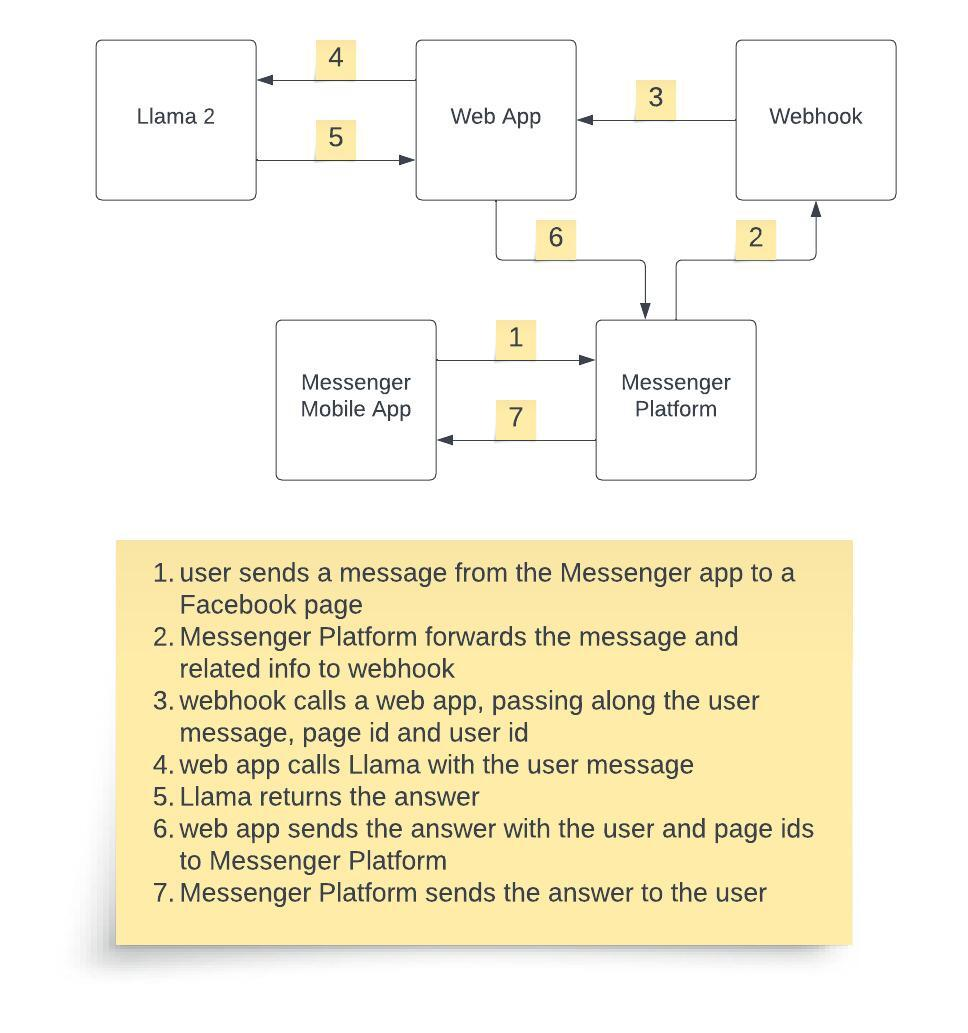
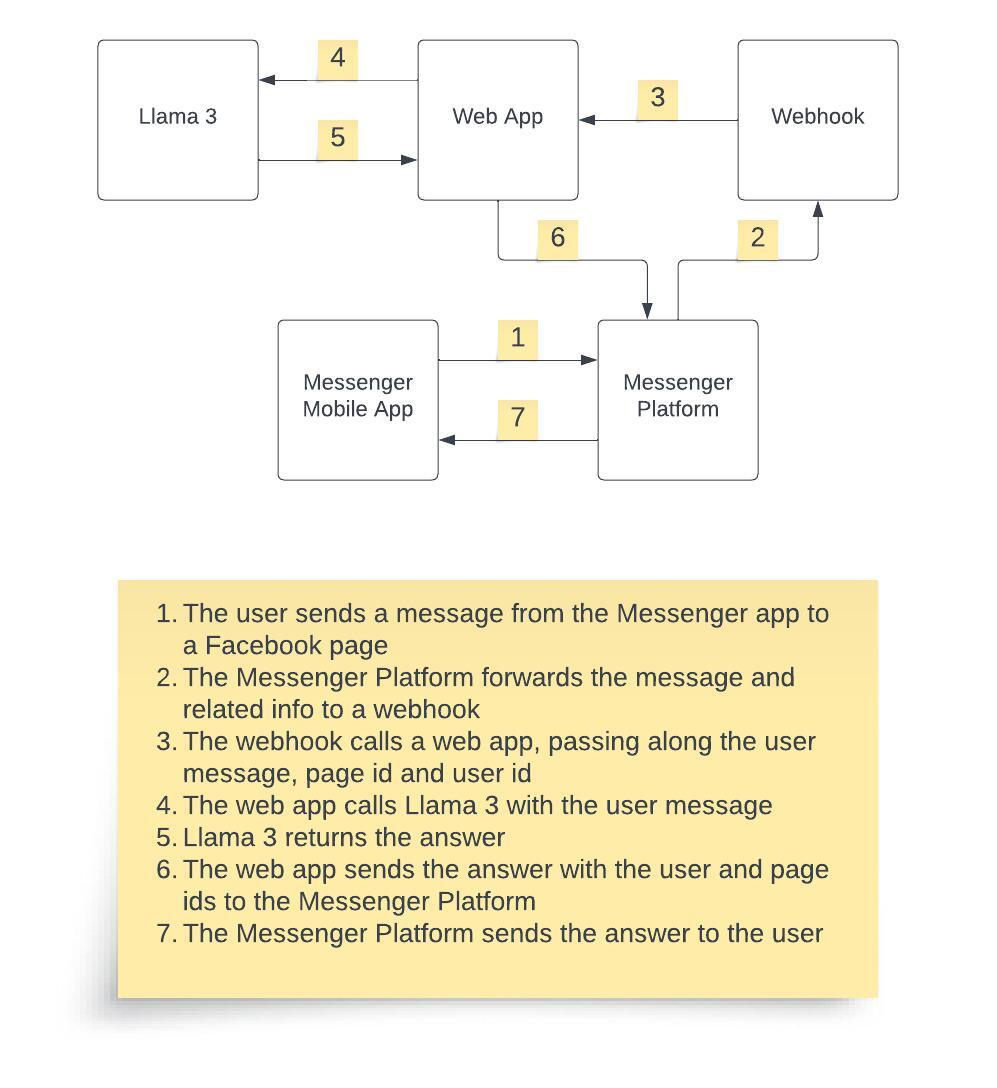
update messenger and whatsapp tutorials for Llama 3

diff --git a/recipes/use_cases/chatbots/whatsapp_llama/llama_chatbot.py b/recipes/use_cases/chatbots/whatsapp_llama/llama_chatbot.py
@@ -1,5 +1,5 @@
 # Copyright (c) Meta Platforms, Inc. and affiliates.
-# This software may be used and distributed according to the terms of the Llama 2 Community License Agreement.
+# This software may be used and distributed according to the terms of the Llama 3 Community License Agreement.
 
 import langchain
 from langchain.llms import Replicate
@@ -39,26 +39,25 @@ class WhatsAppClient:
         return response.status_code
 
 os.environ["REPLICATE_API_TOKEN"] = "<your replicate api token>"    
-llama2_13b_chat = "meta/llama-2-13b-chat:f4e2de70d66816a838a89eeeb621910adffb0dd0baba3976c96980970978018d"
+llama3_8b_chat = "meta/meta-llama-3-8b-instruct"
 
 llm = Replicate(
-    model=llama2_13b_chat,
-    model_kwargs={"temperature": 0.01, "top_p": 1, "max_new_tokens":500}
+    model=llama3_8b_chat,
+    model_kwargs={"temperature": 0.0, "top_p": 1, "max_new_tokens":500}
 )
 client = WhatsAppClient()
 app = Flask(__name__)
 
 @app.route("/")
 def hello_llama():
-    return "<p>Hello Llama 2</p>"
+    return "<p>Hello Llama 3</p>"
 
 @app.route('/msgrcvd', methods=['POST', 'GET'])
 def msgrcvd():    
     message = request.args.get('message')
-    #client.send_template_message("hello_world", "en_US", "14086745477")
     answer = llm(message)
     print(message)
     print(answer)
-    client.send_text_message(llm(message), "14086745477")
+    client.send_text_message(llm(message), "<your phone number>")
     return message + "<p/>" + answer
 

diff --git a/recipes/use_cases/chatbots/messenger_llama/llama_messenger.py b/recipes/use_cases/chatbots/messenger_llama/llama_messenger.py
@@ -1,5 +1,5 @@
 # Copyright (c) Meta Platforms, Inc. and affiliates.
-# This software may be used and distributed according to the terms of the Llama 2 Community License Agreement.
+# This software may be used and distributed according to the terms of the Llama 3 Community License Agreement.
 
 import langchain
 from langchain.llms import Replicate
@@ -11,11 +11,11 @@ import requests
 import json
 
 os.environ["REPLICATE_API_TOKEN"] = "<your replicate api token>"
-llama2_13b_chat = "meta/llama-2-13b-chat:f4e2de70d66816a838a89eeeb621910adffb0dd0baba3976c96980970978018d"
+llama3_8b_chat = "meta/meta-llama-3-8b-instruct"
 
 llm = Replicate(
-    model=llama2_13b_chat,
-    model_kwargs={"temperature": 0.01, "top_p": 1, "max_new_tokens":500}
+    model=llama3_8b_chat,
+    model_kwargs={"temperature": 0.0, "top_p": 1, "max_new_tokens":500}
 )
 
 app = Flask(__name__)

diff --git a/recipes/use_cases/chatbots/whatsapp_llama/whatsapp_llama3.md b/recipes/use_cases/chatbots/whatsapp_llama/whatsapp_llama3.md
@@ -1,14 +1,14 @@
-# Building a Llama-enabled WhatsApp Chatbot
+# Building a Llama 3 Enabled WhatsApp Chatbot
 
-This step-by-step tutorial shows the complete process of building a Llama-enabled WhatsApp chatbot. A demo video of using the iOS WhatsApp to send a question to a test phone number and receive the Llama 2 generated answer is [here](https://drive.google.com/file/d/1fZDaOsvyE1yrNGETV-e0SvL14BYeAI6R/view).
+This step-by-step tutorial shows the complete process of building a Llama 3 enabled WhatsApp chatbot. A demo video of using the iOS WhatsApp to send a question to a test phone number and receive the Llama 3 generated answer is [here](https://drive.google.com/file/d/1fZDaOsvyE1yrNGETV-e0SvL14BYeAI6R/view).
 
-If you're interested in a Llama-enabled Messenger chatbot, see [here](../messenger_llama/messenger_llama2.md) for a tutorial.
+If you're interested in a Llama 3 enabled Messenger chatbot, see [here](../messenger_llama/messenger_llama3.md) for a tutorial.
 
 ## Overview
 
-Businesses of all sizes can use the [WhatsApp Business API](https://developers.facebook.com/docs/whatsapp/cloud-api/overview) to connect their customers with human agents or Llama 2 powered chatbots. The benefits of an intelligent and knowledgable chatbot are obvious, including cost saving and better customer experience such as 24x7 availability. In this blog, we'll cover the details of integrating Llama 2 with the WhatsApp Business API to build a basic Llama 2 enabled chatbot.
+Businesses of all sizes can use the [WhatsApp Business API](https://developers.facebook.com/docs/whatsapp/cloud-api/overview) to connect their customers with human agents or Llama 3 powered chatbots. The benefits of an intelligent and knowledgable chatbot are obvious, including cost saving and better customer experience such as 24x7 availability. In this blog, we'll cover the details of integrating Llama 3 with the WhatsApp Business API to build a basic Llama 3 enabled chatbot.
 
-The diagram below shows the components and overall data flow of the Llama 2 enabled WhatsApp chatbot demo we built, using Amazon EC2 instance as an example for running the web server.
+The diagram below shows the components and overall data flow of the Llama 3 enabled WhatsApp chatbot demo we built, using Amazon EC2 instance as an example for running the web server.
 
 ![](../../../../docs/images/whatsapp_llama_arch.jpg)
 
@@ -29,9 +29,9 @@ Now open the [Meta for Develops Apps](https://developers.facebook.com/apps/) pag
 
 Note down the "Temporary access token", "Phone number ID", and "a recipient phone number" in the API Setup page above, which will be used later.
 
-## Writing Llama 2 Enabled Web App
+## Writing Llama 3 Enabled Web App
 
-The Python-based web app we developed uses [LangChain](https://www.langchain.com/), an open source LLM development framework, and [Replicate](https://replicate.com/), a service provider hosting LLM models in the cloud, to receive the user query sent by the webhook, which will be covered in the next section, pass the query to Llama 2, and send the Llama 2 answer back to the webhook. For more information on how to use LangChain and Replicate to develop Llama 2 apps, see the recipes - you may also replace Replicate with other Llama deployment options shown in the demo apps.
+The Python-based web app we developed uses [LangChain](https://www.langchain.com/), an open source LLM development framework, and [Replicate](https://replicate.com/), a service provider hosting LLM models in the cloud, to receive the user query sent by the webhook, which will be covered in the next section, pass the query to Llama 3, and send the Llama 3 answer back to the webhook. For more information on how to use LangChain and Replicate to develop Llama 3 apps, see the recipes - you may also replace Replicate with other Llama deployment options shown in the demo apps.
 
 First, let's create a new conda (or you can use venv if you like) environment and install all the required packages:
 
@@ -41,7 +41,7 @@ conda activate whatsapp-llama
 pip install langchain replicate flask requests uvicorn gunicorn
 ```
 
-Then, create a Python file named llama_chatbot.py with the following code, which defines a class `WhatsAppClient` and a method `send_text_message` to post a message (the answer generated by Llama 2 on a user query) to the WhatsApp Cloud API, which then sends the answer back to the WhatsApp user. Remember to set `WHATSAPP_API_TOKEN` and `WHATSAPP_CLOUD_NUMBER_ID` to the values you saved in the previous section.
+Then, create a Python file named llama_chatbot.py with the following code, which defines a class `WhatsAppClient` and a method `send_text_message` to post a message (the answer generated by Llama 3 on a user query) to the WhatsApp Cloud API, which then sends the answer back to the WhatsApp user. Remember to set `WHATSAPP_API_TOKEN` and `WHATSAPP_CLOUD_NUMBER_ID` to the values you saved in the previous section.
 
 ```
 import langchain
@@ -78,25 +78,25 @@ class WhatsAppClient:
         return response.status_code
 ```
 
-Finally, add the code below to llama_chatbot.py, which creates a Llama 2 instance and defines an HTTP method `msgrcvd` to:
+Finally, add the code below to llama_chatbot.py, which creates a Llama 3 instance and defines an HTTP method `msgrcvd` to:
 1. receive the user message forwarded by the webhook;
-2. ask Llama 2 for the answer;
+2. ask Llama 3 for the answer;
 3. call the `WhatsAppClient`'s `send_text_message`` with a recipient's phone number.
    
 ```   
 os.environ["REPLICATE_API_TOKEN"] = "<your replicate api token>"    
-llama2_13b_chat = "meta/llama-2-13b-chat:f4e2de70d66816a838a89eeeb621910adffb0dd0baba3976c96980970978018d"
+llama3_8b_chat = "meta/meta-llama-3-8b-instruct"
 
 llm = Replicate(
-    model=llama2_13b_chat,
-    model_kwargs={"temperature": 0.01, "top_p": 1, "max_new_tokens":500}
+    model=llama3_8b_chat,
+    model_kwargs={"temperature": 0.0, "top_p": 1, "max_new_tokens":500}
 )
 client = WhatsAppClient()
 app = Flask(__name__)
 
 @app.route("/")
 def hello_llama():
-    return "<p>Hello Llama 2</p>"
+    return "<p>Hello Llama 3</p>"
 
 @app.route('/msgrcvd', methods=['POST', 'GET'])
 def msgrcvd():    
@@ -119,7 +119,7 @@ Open your glitch.com webhook URL created earlier, and after the code snippet in 
 console.log(req.body["entry"][0]["changes"][0]["value"]["messages"][0]["text"]["body"]);
 ```
 
-add the code below - remember to change <web server public IP>, which needs to be publicly visible, to the IP of the server where your Llama 2 enabled web app in the previous section runs:
+add the code below - remember to change <web server public IP>, which needs to be publicly visible, to the IP of the server where your Llama 3 enabled web app in the previous section runs:
 
 ```
   let url = "http://<web server public IP>:5000/msgrcvd?message=" + 
@@ -134,7 +134,7 @@ add the code below - remember to change <web server public IP>, which needs to b
     });
 ```
 
-The code simply forwards the user message received by the WhatsApp Cloud Platform to the Llama 2 enabled web app llama_chatbot.py described in the previous section. Because the functionality of calling the WhatsApp Cloud API to send  a message has been implemented in the `send_text_message` in Python above, you can comment out the whole following code snippet in the original app.js:
+The code simply forwards the user message received by the WhatsApp Cloud Platform to the Llama 3 enabled web app llama_chatbot.py described in the previous section. Because the functionality of calling the WhatsApp Cloud API to send  a message has been implemented in the `send_text_message` in Python above, you can comment out the whole following code snippet in the original app.js:
 
 ```
   '// info on WhatsApp text message payload: https://developers.facebook.com/docs/whatsapp/cloud-api/webhooks/payload-examples#text-messages
@@ -143,7 +143,7 @@ The code simply forwards the user message received by the WhatsApp Cloud Platfor
   }    
 ```
 
-Note: It's possible and even recommended to implement a webhook in Python and call the Llama directly inside the webhook, instead of making an HTTP request, as the JavaScript code above does, to a Python app which calls Llama and sends the answer to WhatsApp.
+Note: It's possible and even recommended to implement a webhook in Python and call Llama 3 directly inside the webhook, instead of making an HTTP request, as the JavaScript code above does, to a Python app which calls Llama 3 and sends the answer to WhatsApp.
 
 ## Running the Chatbot
 
@@ -159,4 +159,4 @@ If you use Amazon EC2 as your web server, make sure you have port 5000 added to 
 http://<web server public IP>:5000/msgrcvd?message=who%20wrote%20the%20book%20godfather
 ```
 
-Now you can open your WhatsApp app, enter a question and receive the Llama 2's answer shortly, as shown in the demo video in the beginning of this post.
+Now you can open your WhatsApp app, enter a question and receive the Llama 3's answer shortly, as shown in the demo video in the beginning of this post.

diff --git a/recipes/use_cases/chatbots/messenger_llama/messenger_llama3.md b/recipes/use_cases/chatbots/messenger_llama/messenger_llama3.md
@@ -1,14 +1,14 @@
-# Building a Llama-enabled Messenger Chatbot
+# Building a Llama 3 Enabled Messenger Chatbot
 
-This step-by-step tutorial shows the complete process of building a Llama-enabled Messenger chatbot. A demo video of using the iOS Messenger app to send a question to a Facebook business page and receive the Llama 2 generated answer is [here](https://drive.google.com/file/d/1B4ijFH4X3jEHZfkGdTPmdsgpUes_RNud/view).
+This step-by-step tutorial shows the complete process of building a Llama-enabled Messenger chatbot. A demo video of using the iOS Messenger app to send a question to a Facebook business page and receive the Llama 3 generated answer is [here](https://drive.google.com/file/d/1B4ijFH4X3jEHZfkGdTPmdsgpUes_RNud/view).
 
-If you're interested in a Llama-enabled WhatsApp chatbot, see [here](../whatsapp_llama/whatsapp_llama2.md) for a tutorial.
+If you're interested in a Llama 3 enabled WhatsApp chatbot, see [here](../whatsapp_llama/whatsapp_llama3.md) for a tutorial.
 
 ## Overview
 
-Messenger from Meta is a messaging service that allows a Facebook business page to respond to people who are interested in their business using [Messenger Platform](https://developers.facebook.com/docs/messenger-platform/overview). The benefits of an intelligent and knowledgable Llama 2 powered chatbot are obvious, including cost saving and better customer experience such as 24x7 availability. In this tutorial, we'll cover the details of integrating Llama 2 with the Messenger Platform to build a basic Llama 2 enabled chatbot - for more Llama 2 application development and deployment demos such as how to integrate your own data with Llama 2, see the recipes.
+Messenger from Meta is a messaging service that allows a Facebook business page to respond to people who are interested in their business using [Messenger Platform](https://developers.facebook.com/docs/messenger-platform/overview). The benefits of an intelligent and knowledgable Llama 3 powered chatbot are obvious, including cost saving and better customer experience such as 24x7 availability. In this tutorial, we'll cover the details of integrating Llama 3 with the Messenger Platform to build a basic Llama 3 enabled chatbot - for more Llama 3 application development and deployment demos such as how to integrate your own data with Llama 3, see the recipes.
 
-The diagram below shows the components and overall data flow of the Llama 2 enabled Messenger chatbot demo we built, using an Amazon EC2 instance as an example for running the web server.
+The diagram below shows the components and overall data flow of the Llama 3 enabled Messenger chatbot demo we built, using an Amazon EC2 instance as an example for running the web server.
 
 ![](../../../../docs/images/messenger_llama_arch.jpg)
 
@@ -26,9 +26,9 @@ The diagram below shows the components and overall data flow of the Llama 2 enab
 
 ![](../../../../docs/images/messenger_api_settings.png)
 
-## Writing Llama 2 Enabled Web App
+## Writing Llama 3 Enabled Web App
 
-The Python-based web app we developed uses [LangChain](https://www.langchain.com/), an open source LLM development framework, and [Replicate](https://replicate.com/), a service provider hosting LLM models in the cloud, to receive the user query sent by the webhook, which will be covered in the next section, pass the query to Llama 2, and send the Llama 2 answer back to the webhook. For more information on how to use LangChain or LlamaIndex, another LLM app building framework, and other Llama cloud providers or on-premise deployment options to develop Llama 2 apps, see the recipes.
+The Python-based web app we developed uses [LangChain](https://www.langchain.com/), an open source LLM development framework, and [Replicate](https://replicate.com/), a service provider hosting LLM models in the cloud, to receive the user query sent by the webhook, which will be covered in the next section, pass the query to Llama 3, and send the Llama 3 answer back to the webhook. For more information on how to use LangChain or LlamaIndex, another LLM app building framework, and other Llama 3 cloud providers or on-premise deployment options to develop Llama 3 apps, see the recipes.
 
 First, let's create a new conda (or you can use venv if you like) environment and install all the required packages:
 
@@ -38,10 +38,10 @@ conda activate messenger-llama
 pip install langchain replicate flask requests uvicorn gunicorn
 ```
 
-Then, create a Python file named [llama_messenger.py](llama_messenger.py) that creates a Llama 2 instance and defines an HTTP method `msgrcvd_page` to:
+Then, create a Python file named [llama_messenger.py](llama_messenger.py) that creates a Llama 3 instance and defines an HTTP method `msgrcvd_page` to:
 
 1. receive the user message forwarded by the webhook;
-2. ask Llama 2 for the answer;
+2. ask Llama 3 for the answer;
 3. send the answer back to the sender using the Facebook graph API.
 
 ```
@@ -55,11 +55,11 @@ import requests
 import json
 
 os.environ["REPLICATE_API_TOKEN"] = "<your replicate api token"    
-llama2_13b_chat = "meta/llama-2-13b-chat:f4e2de70d66816a838a89eeeb621910adffb0dd0baba3976c96980970978018d"
+llama3_8b_chat = "meta/meta-llama-3-8b-instruct"
 
 llm = Replicate(
-    model=llama2_13b_chat,
-    model_kwargs={"temperature": 0.01, "top_p": 1, "max_new_tokens":500}
+    model=llama3_8b_chat,
+    model_kwargs={"temperature": 0.0, "top_p": 1, "max_new_tokens":500}
 )
 
 app = Flask(__name__)
@@ -91,7 +91,7 @@ Replace <page_access_token> with the access token copied in step 5 "Open Messeng
 
 ## Modifying the Webhook 
 
-Open your glitch.com webhook URL created earlier, and change your `app.js` to simply forward the user message and the user and page ids sent by the Messenger Platform to the Llama 2 enabled web app `llama_messenger.py` described in the previous section:
+Open your glitch.com webhook URL created earlier, and change your `app.js` to simply forward the user message and the user and page ids sent by the Messenger Platform to the Llama 3 enabled web app `llama_messenger.py` described in the previous section:
 
 ```
 "use strict";
@@ -167,7 +167,7 @@ app.get("/webhook", (req, res) => {
 });
 
 ```
-Remember to change <web server public IP>, which needs to be publicly visible, to the IP of the server where your Llama 2 enabled web app in the previous section runs.
+Remember to change <web server public IP>, which needs to be publicly visible, to the IP of the server where your Llama 3 enabled web app in the previous section runs.
 
 Note: It's possible and even recommended to implement a webhook in Python and call the Llama directly inside the webhook, instead of making an HTTP request, as the JavaScript code above does, to a Python app which calls Llama and sends the answer to Messenger.
 
@@ -181,7 +181,7 @@ gunicorn -b 0.0.0.0:5000 llama_messenger:app
 
 If you use Amazon EC2 as your web server, make sure you have port 5000 added to your EC2 instance's security group's inbound rules. 
 
-Now you can open your Messenger app, select the Facebook page you connected in Messenger's API Settings, enter a message and receive the Llama 2's answer shortly, as shown in the demo video in the beginning of this post.
+Now you can open your Messenger app, select the Facebook page you connected in Messenger's API Settings, enter a message and receive the Llama 3's answer shortly, as shown in the demo video in the beginning of this post.
 
 To debug any possible issues, go to your glitch.com app log and copy the URL generated there when a Messenger message is sent, which looks like this:
 
